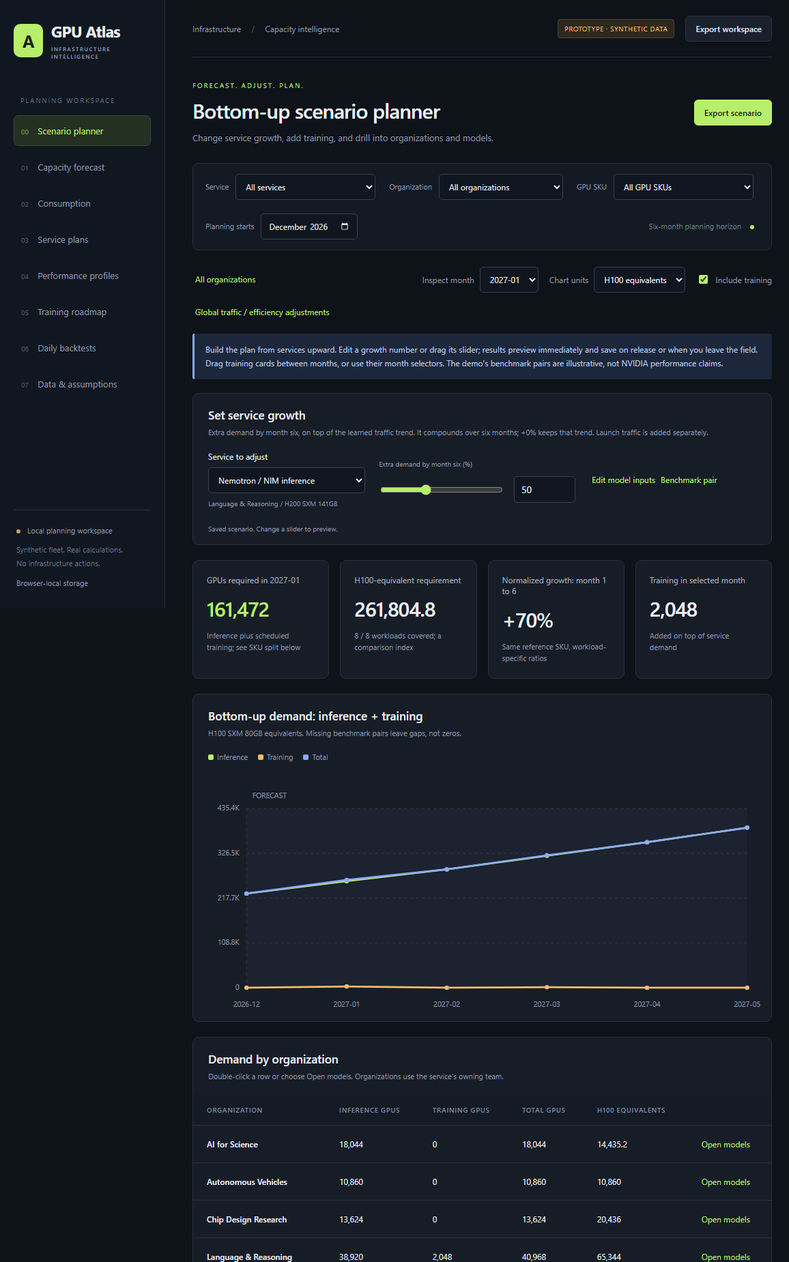
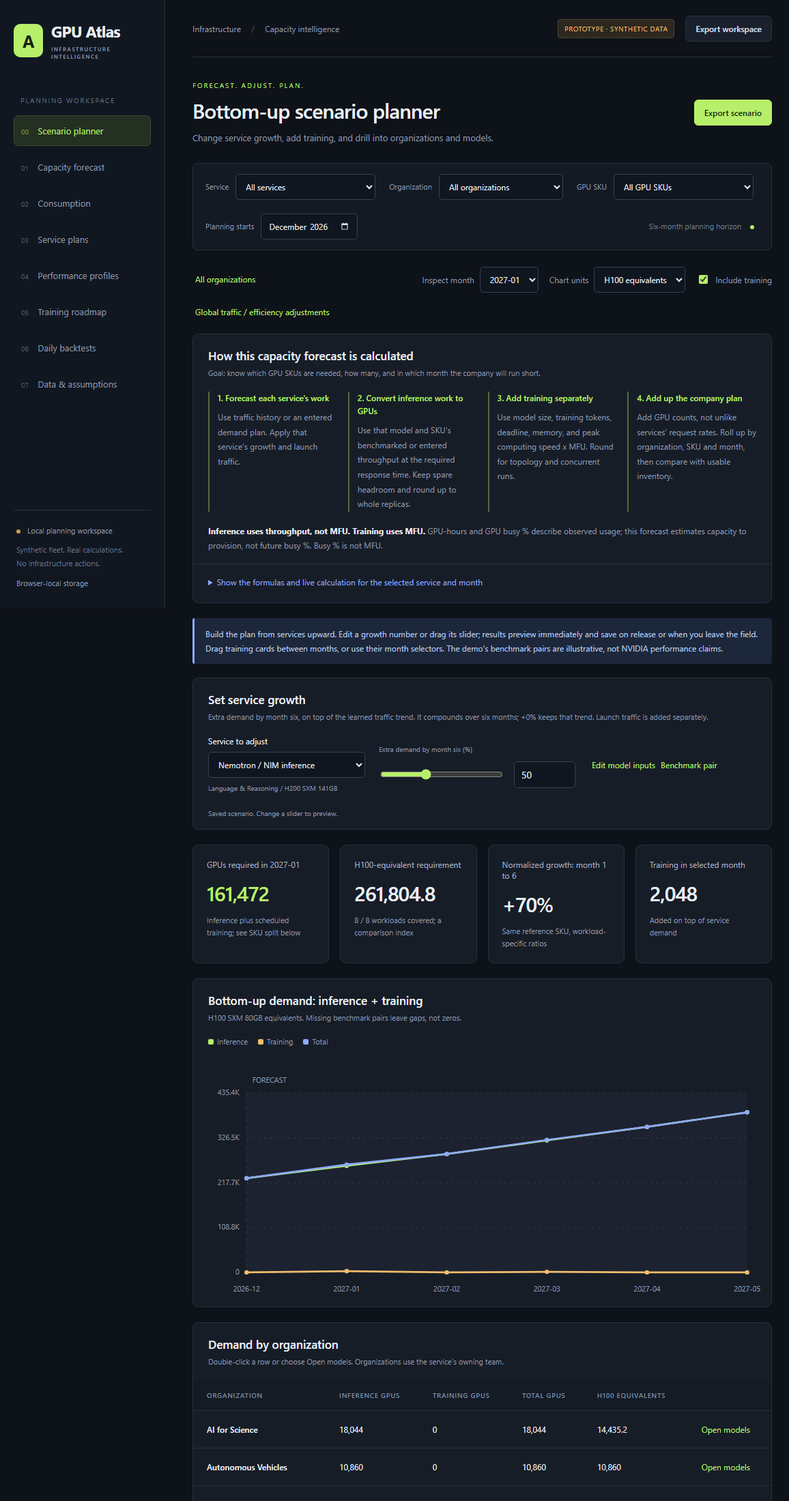
Explain capacity forecasting on the scenario planner

diff --git a/portal/app.js b/portal/app.js
@@ -214,8 +214,71 @@
   function calibrationButton(kind, item) {
     return `<button class="text-button" data-calibrate-kind="${kind}" data-calibrate-id="${esc(item.id)}" ${M.skuInfo(item.pool).legacy ? 'disabled title="Register an exact-SKU workload before normalizing"' : ""}>Benchmark pair</button>`;
   }
-  function planningResults(workspace) {
-    const report = M.bottomUpForecast(workspace, serviceFilter, teamFilter, poolFilter);
+  function forecastLogicExample(workspace, report) {
+    const focused = report.monthly.find(m => m.month === planningMonth) || report.monthly.at(-1);
+    const entries = focused.pools.flatMap(p => p.estimates);
+    const selected = report.services.find(e => e.service.id === planningQuickService) || report.services[0];
+    const estimate = selected && entries.find(e => e.serviceId === selected.service.id);
+    const usable = selected?.available && estimate?.available;
+    let serving;
+    if (usable) {
+      const service = selected.service, performance = selected.performance;
+      const throughput = performance.rpsPerReplica * (1 + report.options.throughputChangePct / 100);
+      const capacityShare = 1 - service.headroom / 100;
+      serving = `<h3>One service: ${esc(service.name)} in ${focused.month}</h3>
+        <ol class="logic-calculation">
+          <li>Start with ${fmt(estimate.baseRps, 2)} peak work items/second from ${selected.demand.source === "history" ? "the learned traffic forecast" : "the entered user-demand plan"}. Apply this service's growth and the global traffic change, then add launches:<br><code>${fmt(estimate.baseRps, 2)} x ${fmt(estimate.growthFactor, 6)} x ${fmt(1 + report.options.trafficAdjustmentPct / 100, 4)} + ${fmt(estimate.launchRps, 2)} = ${fmt(estimate.peakRps, 2)} peak work items/second.</code></li>
+          <li>One replica uses ${performance.gpusPerReplica} ${esc(skuName(service.pool))} GPUs and handles ${fmt(performance.rpsPerReplica, 4)} work items/second at the required response time. The ${pct(report.options.throughputChangePct)} throughput adjustment makes that ${fmt(throughput, 4)}. Keep ${fmt(service.headroom, 2)}% spare capacity, leaving ${fmt(throughput * capacityShare, 4)} usable work items/second per replica.</li>
+          <li>Round up to whole replicas, then multiply by GPUs per replica:<br><code>Round up (${fmt(estimate.peakRps, 2)} / ${fmt(throughput * capacityShare, 4)}) = ${fmt(estimate.gpus / performance.gpusPerReplica)} replicas.<br>${fmt(estimate.gpus / performance.gpusPerReplica)} replicas x ${performance.gpusPerReplica} GPUs = ${fmt(estimate.gpus)} required GPUs.</code></li>
+        </ol><p class="help">Throughput source: ${esc(performance.source === "inline-assumption" ? "entered service assumption" : performance.source === "synthetic" ? "illustrative profile" : "user-supplied benchmark")}. Displayed rates are rounded; GPU totals use full precision.</p>`;
+    } else serving = `<h3>One-service calculation</h3><p>${esc(selected ? selected.reason || estimate?.reason || "This service cannot be sized with the current inputs." : "No inference service matches these filters. Training on the selected SKU can still contribute below.")}</p>`;
+    const rows = report.services.map(e => {
+      const item = entries.find(r => r.serviceId === e.service.id);
+      const available = e.available && item?.available;
+      return `<tr><td class="service-name">${esc(e.service.name)}<span class="subtext">${esc(skuName(e.service.pool))}</span></td><td>${available ? fmt(item.peakRps, 2) : "Not available"}</td><td>${available ? fmt(e.performance.rpsPerReplica * (1 + report.options.throughputChangePct / 100), 4) : "Not available"}</td><td>${fmt(e.service.headroom, 2)}%</td><td>${available ? fmt(e.performance.gpusPerReplica) : "Not available"}</td><td>${available ? fmt(item.gpus) : "Not available"}${available ? "" : `<span class="subtext">${esc(e.reason || item?.reason || "Missing sizing inputs")}</span>`}</td></tr>`;
+    }).join("");
+    const horizon = M.months(workspace.startMonth);
+    const plans = planningPlans(workspace).filter(t => horizon.includes(t.month));
+    const plan = plans.find(t => t.month === focused.month) || [...plans].sort((a, b) => a.month.localeCompare(b.month))[0];
+    let training = "<p>No training plan matches these filters within the planning horizon. Training requires separate model, token, timing, memory and MFU inputs; it is not inferred from service request rates.</p>";
+    if (plan) {
+      const result = M.training(plan);
+      const status = !report.options.includeTraining ? "Excluded from totals because Include training is off." :
+        plan.month === focused.month ? "Included in the inspected month's total." :
+          `Scheduled in ${plan.month}, not in the inspected month ${focused.month}.`;
+      training = `<h3>Training example: ${esc(plan.name)}</h3><p>${esc(skuName(plan.pool))}. ${status}</p>
+        <ol class="logic-calculation">
+          <li>Dense-model work: <code>6 x ${fmt(plan.parametersB, 3)} billion parameters x ${fmt(plan.tokensB, 3)} billion training tokens = ${result.flops.toExponential(2)} FLOPs.</code></li>
+          <li>Effective GPU speed: <code>${fmt(plan.peakTflops, 3)} peak TFLOP/s x ${fmt(plan.mfu, 2)}% MFU = ${fmt(plan.peakTflops * plan.mfu / 100, 3)} effective TFLOP/s per GPU.</code> MFU is the share of theoretical computing speed achieved on model work, not the GPU busy percentage.</li>
+          <li>Finishing within ${fmt(plan.days, 2)} active days needs ${fmt(result.computeGpus)} GPUs for compute. The training-state memory minimum is ${fmt(result.memoryGpus)} GPUs. Take the larger count and round up to blocks of ${fmt(plan.block)} GPUs: ${fmt(result.gang)} per run. Multiply by ${fmt(plan.runs)} concurrent runs: <strong>${Number.isSafeInteger(result.totalGpus) ? `${fmt(result.totalGpus)} required training GPUs` : "GPU count outside the supported range"}</strong>.</li>
+        </ol><p class="help">This estimates dense-transformer pretraining only. Peak speed and MFU must refer to the same precision and configuration. The memory screen excludes activations and communication buffers; it does not prove fit. Training tokens/second benchmark pairs are used for H100 normalization, not to replace this MFU-based sizing calculation.</p>`;
+    }
+    return `<div class="logic-example">${serving}<h3>Repeat the calculation for every service</h3>
+      <p>Each model has its own request size, response-time target, GPU SKU and serving throughput. Do not add a render's work/second to a language model's requests/second and divide by one company-wide speed. Convert each service to GPUs first:</p>
+      ${table(["Service / SKU", "Planned peak work/s", "Work/s per replica", "Spare share", "GPUs per replica", "Required GPUs"], rows)}
+      <div class="logic-training">${training}</div>
+      <h3>The result for ${focused.month}, within the current filters</h3>
+      <p><strong>${fmt(focused.inference)} inference GPUs + ${fmt(focused.training)} scheduled training GPUs = <span id="logic-total-gpus">${fmt(focused.required)}</span> required GPUs${focused.physicalComplete ? "" : " (partial: some workloads cannot be sized)"}.</strong> Group these counts by owning organization and exact GPU SKU. Monthly planning assumes service peaks and same-month training can overlap; it does not credit shared idle time.</p>
+      <p>For each SKU: <code>usable supply = installed - unavailable - protected reserve + additions ready by that month</code>. Then <code>shortage = required GPUs - usable supply</code>. A positive shortage is the number to add or the demand to reschedule; spare capacity in another SKU is not an automatic substitute.</p>
+      <p>For a common growth index, multiply each workload's GPU count by its own selected-SKU/H100 throughput ratio, then add those H100 equivalents. Normalization compares the plan; it does not change the required SKU counts or normalize idle inventory.</p></div>`;
+  }
+  function forecastLogicPanel(workspace, report) {
+    return `<section class="panel forecast-logic" aria-labelledby="forecast-logic-title"><div class="panel-heading"><div><h2 id="forecast-logic-title">How this capacity forecast is calculated</h2><p>Goal: know which GPU SKUs are needed, how many, and in which month the company will run short.</p></div></div>
+      <ol class="logic-steps">
+        <li><h3>1. Forecast each service's work</h3><p>Use traffic history or an entered demand plan. Apply that service's growth and launch traffic.</p></li>
+        <li><h3>2. Convert inference work to GPUs</h3><p>Use that model and SKU's benchmarked or entered throughput at the required response time. Keep spare headroom and round up to whole replicas.</p></li>
+        <li><h3>3. Add training separately</h3><p>Use model size, training tokens, deadline, memory, and peak computing speed x MFU. Round for topology and concurrent runs.</p></li>
+        <li><h3>4. Add up the company plan</h3><p>Add GPU counts, not unlike services' request rates. Roll up by organization, SKU and month, then compare with usable inventory.</p></li>
+      </ol>
+      <p class="logic-key"><strong>Inference uses throughput, not MFU. Training uses MFU.</strong> GPU-hours and GPU busy % describe observed usage; this forecast estimates capacity to provision, not future busy %. Busy % is not MFU.</p>
+      <details id="forecast-logic-details" ${$("#forecast-logic-details")?.open ? "open" : ""}><summary>Show the formulas and live calculation for the selected service and month</summary>
+        <div class="logic-formulas"><p><strong>Inference:</strong> <code>replicas = round up (peak work/s / (work/s per replica x usable capacity share))</code>; <code>GPUs = replicas x GPUs per replica</code>.</p>
+        <p><strong>Training:</strong> <code>work = 6 x parameters x training tokens</code>; <code>compute GPUs = round up (work / (active seconds x peak FLOP/s per GPU x MFU fraction))</code>. Use the larger compute/memory count, round to topology blocks, then multiply by concurrent runs.</p>
+        <p>For history-based services, compare a recent average with a weekly trend plus weekday pattern using 14 held-out days, refit, then size against the busiest predicted day of each month. At least 42 consecutive days are needed; up to 84 are used. Missing history requires an explicit demand plan, not an assumed zero.</p></div>
+        <div id="forecast-logic-example">${forecastLogicExample(workspace, report)}</div>
+      </details></section>`;
+  }
+  function planningResults(workspace, report = M.bottomUpForecast(workspace, serviceFilter, teamFilter, poolFilter)) {
     const focused = report.monthly.find(m => m.month === planningMonth) || report.monthly.at(-1);
     const first = report.monthly[0], last = report.monthly.at(-1);
     const normalized = planningUnit === "h100";
@@ -254,10 +317,12 @@
     if (quick) planningQuickService = quick.id;
     const plans = planningPlans(state);
     const options = state.forecast || M.defaultForecast();
+    const report = M.bottomUpForecast(state, serviceFilter, teamFilter, poolFilter);
     return `<div class="planning-toolbar"><div class="planning-breadcrumb"><button class="text-button" data-planning-root>All organizations</button>${teamFilter !== "all" ? ` / <button class="text-button" data-drill-org="${esc(teamFilter)}">${esc(teamFilter)}</button>` : ""}${serviceFilter !== "all" ? ` / ${esc(state.services.find(s => s.id === serviceFilter).name)}` : ""}</div><label>Inspect month<select id="planning-month">${horizon.map(m => `<option ${m === planningMonth ? "selected" : ""}>${m}</option>`).join("")}</select></label><label>Chart units<select id="planning-unit"><option value="physical" ${planningUnit === "physical" ? "selected" : ""}>Physical GPUs</option><option value="h100" ${planningUnit === "h100" ? "selected" : ""}>H100 equivalents</option></select></label><label class="check-option"><input id="planning-training" type="checkbox" ${options.includeTraining ? "checked" : ""}> Include training</label><button class="text-button" data-view="capacity">Global traffic / efficiency adjustments</button></div>
+      ${forecastLogicPanel(state, report)}
       <div class="callout info">Build the plan from services upward. Edit a growth number or drag its slider; results preview immediately and save on release or when you leave the field. Drag training cards between months, or use their month selectors. The demo's benchmark pairs are illustrative, not NVIDIA performance claims.</div>
       <section class="panel"><div class="panel-heading"><div><h2>Set service growth</h2><p>Extra demand by month six, on top of the learned traffic trend. It compounds over six months; +0% keeps that trend. Launch traffic is added separately.</p></div></div><div class="panel-body planning-quick">${quick ? `<label>Service to adjust<select id="planning-quick-service">${services.map(s => `<option value="${esc(s.id)}" ${s.id === quick.id ? "selected" : ""}>${esc(s.name)}</option>`).join("")}</select><span class="help">${esc(quick.team)} / ${esc(skuName(quick.pool))}</span></label><div><label class="help">Extra demand by month six (%)</label><div class="growth-editor"><input type="range" min="-90" max="300" step="0.1" value="${quick.scenarioGrowthPct ?? 0}" data-service-growth="${esc(quick.id)}" aria-label="Growth slider for ${esc(quick.name)}"><input type="number" min="-90" max="300" step="0.1" value="${quick.scenarioGrowthPct ?? 0}" required data-service-growth="${esc(quick.id)}" aria-label="Growth percentage for ${esc(quick.name)}"></div></div><div><button class="text-button" data-edit-service="${esc(quick.id)}">Edit model inputs</button>${calibrationButton("inference", quick)}</div>` : '<p class="help">No inference service matches these filters. Training on this SKU is still included below.</p>'}</div><p id="planning-preview-status" class="panel-body help" role="status">Saved scenario. Change a slider to preview.</p></section>
-      <div id="planning-results">${planningResults(state)}</div>
+      <div id="planning-results">${planningResults(state, report)}</div>
       <section class="panel"><div class="panel-heading"><div><h2>Schedule training on top</h2><p>${options.includeTraining ? "Included in totals. Plans within a month are treated as concurrent." : "Excluded from totals. You can still edit or reschedule the roadmap."} Moves preserve the run's active days; impossible calendar moves are rejected.</p></div><button class="button subtle" data-action="training">Add training plan</button></div><div class="training-scroll"><div class="training-board">${horizon.map(m => `<section class="training-lane" data-training-drop="${m}" aria-label="Training scheduled for ${m}"><h3>${m}</h3>${plans.filter(t => t.month === m).map(t => `<article class="training-drag-card" draggable="true" data-training-drag="${esc(t.id)}"><span class="help">Drag to reschedule</span><h3>${esc(t.name)}</h3><p>${fmt(M.training(t).totalGpus)} GPUs<br><span class="help">${esc(skuName(t.pool))}</span></p><label class="help">Move to month<select data-training-month="${esc(t.id)}" aria-label="Move ${esc(t.name)} to month">${horizon.map(month => `<option ${month === m ? "selected" : ""}>${month}</option>`).join("")}</select></label><div class="form-actions"><button class="text-button" data-edit-training="${esc(t.id)}">Edit model</button>${calibrationButton("training", t)}</div></article>`).join("") || '<p class="help">Drop a training plan here.</p>'}</section>`).join("")}</div></div>${plans.some(t => !horizon.includes(t.month)) ? '<p class="panel-body help">Some plans are outside this horizon. Open Training roadmap to see them.</p>' : ""}</section>
       <section class="panel"><div class="panel-heading"><h2>How normalization works</h2></div><div class="panel-body description">For each workload: ratio = benchmark throughput per selected-SKU GPU / benchmark throughput per H100 SXM GPU. H100 equivalents = required GPUs x that ratio. Convert back for that same workload: equivalents / ratio. Compare identical model versions, precision, job sizes and response-time targets; enter full-replica throughput divided by its GPU count.<br>Inference uses fixed work items/second/GPU; training uses training tokens/second/GPU. Ratios are workload-specific, not a universal H100-to-B200 conversion. A GB200 superchip contains a CPU and two GPUs; it is not one interchangeable GPU.<br>Missing, changed or future-dated evidence makes normalized totals unavailable. Physical SKU demand remains visible. This index does not prove memory fit, interconnect compatibility, or that a job can move to another GPU.</div></section>`;
   }
@@ -277,7 +342,9 @@
       if (!save(next, "Service growth saved. SKU demand and organization totals updated.", false, false)) {render(); return;}
       status.textContent = "Scenario saved.";
     } else status.textContent = "Live preview - release the slider or leave the number field to save.";
-    $("#planning-results").innerHTML = planningResults(next);
+    const report = M.bottomUpForecast(next, serviceFilter, teamFilter, poolFilter);
+    $("#planning-results").innerHTML = planningResults(next, report);
+    $("#forecast-logic-example").innerHTML = forecastLogicExample(next, report);
   }
   function rescheduleTraining(id, targetMonth) {
     try {

diff --git a/portal/styles.css b/portal/styles.css
@@ -2,6 +2,9 @@
 *{box-sizing:border-box}body{margin:0;background:var(--bg);color:var(--text);font:14px "Segoe UI",Arial,sans-serif}button,input,select{font:inherit}button,a,input,select{outline-offset:4px}button{cursor:pointer}button:disabled{opacity:.5;cursor:not-allowed}a{color:var(--green)}.sidebar{width:242px;position:fixed;inset:0 auto 0 0;background:#111720;border-right:1px solid var(--line);padding:30px 20px;display:flex;flex-direction:column}.brand{display:flex;gap:12px;align-items:center;color:var(--text);text-decoration:none;font-size:23px;font-weight:650;letter-spacing:-.7px}.brand-icon{background:var(--green);color:#182014;border-radius:10px;padding:8px 13px;font-size:25px}.brand small{display:block;font-size:8px;letter-spacing:1.5px;font-weight:500;color:var(--muted);margin-top:5px}.workspace-label{font-size:10px;letter-spacing:1.7px;color:#657389;margin:52px 10px 15px}nav{display:grid;gap:8px}nav button{background:transparent;color:var(--muted);border:1px solid transparent;text-align:left;border-radius:7px;padding:13px 10px;font-size:13px}nav button span{font-size:10px;margin-right:10px;opacity:.5}nav button:hover{background:#1b2330;color:var(--text)}nav button.active{background:#243022;color:var(--green);border-color:#3a4b31}.sidebar-bottom{margin-top:auto;border-top:1px solid var(--line);padding:22px 4px 0;font-size:11px;color:var(--muted)}.sidebar-bottom p{line-height:1.8;color:#68778c}.dot{display:inline-block;background:var(--green);width:6px;height:6px;border-radius:50%;margin-right:7px}.sidebar-bottom .dot{background:#c9a157}main{margin-left:242px;padding:0 40px;max-width:1800px}header{min-height:84px;display:flex;justify-content:space-between;align-items:center;border-bottom:1px solid var(--line);gap:12px}.breadcrumb{font-size:12px;color:var(--muted)}.breadcrumb span{margin:0 12px;color:#536075}.header-actions{display:flex;gap:16px;align-items:center}.pill,.badge{display:inline-block;font-size:10px;letter-spacing:.6px;padding:6px 9px;border-radius:4px;border:1px solid #4d4330;background:#2d281e;color:var(--amber);white-space:nowrap}.badge{background:#222d3b;border-color:#36475b;color:#b1c1d9;letter-spacing:0;font-size:11px}.badge.green{background:#243222;color:var(--green);border-color:#3d5030}.badge.red{background:#38252b;color:#ff9eaa;border-color:#64333e}.page-heading{display:flex;justify-content:space-between;align-items:center;gap:20px;margin:34px 0 26px}.eyebrow{font-size:10px;color:var(--green);letter-spacing:2px;margin:0 0 10px}h1{font-size:30px;letter-spacing:-.8px;font-weight:600;margin:0 0 10px}h2{font-size:17px;font-weight:600;margin:0}h3{font-size:14px;font-weight:600;margin:0}.page-heading p:not(.eyebrow){color:var(--muted);font-size:13px;margin:0;line-height:1.6}.button{border:1px solid var(--line);border-radius:6px;padding:10px 14px;white-space:nowrap;font-size:12px;font-weight:600}.primary{background:var(--green);border-color:var(--green);color:#1a2613}.primary:hover{background:#c9ff80}.subtle{background:#1a212d;color:#d4deeb}.subtle:hover{border-color:#596a80}.filterbar{display:flex;align-items:center;gap:20px;background:#141a23;border:1px solid var(--line);border-radius:8px;padding:15px 18px;margin-bottom:24px}.filterbar label{display:flex;gap:10px;align-items:center;font-size:11px;color:var(--muted)}select,input{background:#101620;border:1px solid #354153;border-radius:5px;padding:9px 10px;color:var(--text);max-width:100%;min-width:0}input:focus,select:focus{border-color:var(--green)}.filterbar select{max-width:205px;font-size:12px}.filterbar input{font-size:12px}.filter-note{font-size:11px;color:#718197;margin-left:auto}.filter-note .dot{margin-left:10px}.kpis{display:grid;grid-template-columns:repeat(4,minmax(0,1fr));gap:16px;margin-bottom:22px}.kpi{padding:20px;background:var(--panel);border:1px solid var(--line);border-radius:9px}.kpi .label{font-size:12px;color:#a6b0c1;margin-bottom:14px}.kpi .value{font-size:30px;letter-spacing:-1px;font-weight:600}.kpi .detail{font-size:11px;color:var(--muted);margin-top:11px;line-height:1.6}.accent{color:var(--green)}.grid-two{display:grid;grid-template-columns:minmax(0,1.8fr) minmax(270px,1fr);gap:20px;margin-bottom:22px}.panel{background:var(--panel);border:1px solid var(--line);border-radius:9px;margin-bottom:22px;overflow:hidden}.grid-two>.panel{margin-bottom:0}.panel-heading{padding:20px 22px;display:flex;align-items:center;justify-content:space-between;gap:12px}.panel-heading p{font-size:11px;color:var(--muted);margin:7px 0 0}.panel-body{padding:0 22px 22px}.segmented{display:flex;gap:2px;background:#101620;padding:3px;border-radius:6px}.segmented button{background:transparent;color:var(--muted);border:0;border-radius:4px;padding:6px 10px;font-size:11px}.segmented .selected{background:#313b4b;color:#e5edf9}.legend{display:flex;gap:15px;font-size:11px;color:var(--muted);margin:0 0 14px;flex-wrap:wrap}.legend i{display:inline-block;width:8px;height:8px;margin-right:5px;background:var(--green);border-radius:2px}.legend .blue{background:var(--blue)}.legend .amber{background:var(--amber)}.chart{width:100%;height:auto;display:block}.chart text{fill:var(--muted);font:10px "Segoe UI",Arial,sans-serif}.chart line{stroke:#303948}.chart .grid-line{stroke-dasharray:3 5}.chart-wrap{padding:0 16px 12px}.callout{border-left:3px solid var(--amber);padding:13px 16px;background:#29251f;color:#d8c6a9;font-size:12px;line-height:1.7;margin-bottom:20px;border-radius:3px}.callout.info{border-color:var(--blue);background:#1d273b;color:#bacbee}.table-scroll{overflow:auto}table{width:100%;border-collapse:collapse;white-space:nowrap}th{font-size:10px;letter-spacing:.7px;text-transform:uppercase;color:#7f8da3;font-weight:500;background:#141b25}td,th{padding:15px 20px;text-align:left;border-bottom:1px solid #28313e}td{font-size:12px}tbody tr:last-child td{border-bottom:0}.service-name{font-weight:600}.subtext{display:block;color:var(--muted);font-size:10px;margin-top:5px;font-weight:400}.text-button{border:0;background:transparent;color:var(--green);font-size:12px;padding:4px}.text-button:hover{text-decoration:underline}.bar-row{margin-bottom:22px}.bar-row:last-child{margin-bottom:0}.bar-heading{display:flex;justify-content:space-between;font-size:12px;margin-bottom:9px;gap:10px}.bar-track{height:6px;background:#29313f;border-radius:5px;overflow:hidden}.bar-fill{height:100%;background:var(--green);border-radius:5px}.muted{color:var(--muted)}.description{color:var(--muted);line-height:1.8;font-size:12px}.form-grid{display:grid;grid-template-columns:1fr 1fr;gap:17px}.form-grid label{display:grid;gap:8px;font-size:12px;color:#c0cada}.form-grid .wide{grid-column:1/-1}.help{font-size:10px;color:var(--muted);line-height:1.5}.editor-inline{padding:22px;max-width:850px}.form-actions{margin-top:22px;display:flex;gap:12px;align-items:center;flex-wrap:wrap}dialog{background:var(--panel);color:var(--text);border:1px solid #44546b;border-radius:12px;padding:26px;width:min(760px,94vw);max-height:90vh}dialog::backdrop{background:#03070cbb;backdrop-filter:blur(4px)}.dialog-heading{display:flex;justify-content:space-between;align-items:start}.icon-button{border:0;background:transparent;color:var(--muted);font-size:25px}.dialog-footer{display:flex;justify-content:flex-end;gap:12px;margin-top:20px}#editor-intro{font-size:12px;color:var(--muted);line-height:1.7;margin:15px 0 22px}.error{color:#ffa5af;font-size:12px;line-height:1.6}#notice{background:#233526;border:1px solid #455b3d;color:#d2edc8;padding:12px 16px;border-radius:7px;margin-top:16px;font-size:12px}#notice.error{background:#36232a;border-color:#643746;color:#ffbdc5}.empty{padding:36px 22px;color:var(--muted);line-height:1.8}.pool-cards{display:grid;grid-template-columns:repeat(3,minmax(0,1fr));gap:16px;margin-bottom:22px}.plan-card{padding:22px;background:var(--panel);border:1px solid var(--line);border-radius:9px}.plan-card h3{margin:12px 0}.big-number{font-size:26px;margin:16px 0 4px;color:var(--green)}.stat-line{display:flex;justify-content:space-between;gap:15px;padding:10px 0;border-bottom:1px solid var(--line);font-size:12px}.stat-line span:first-child{color:var(--muted)}.data-tools{display:flex;gap:12px;align-items:center;flex-wrap:wrap}.data-tools input{max-width:300px}details{margin-top:15px;font-size:12px;color:var(--muted);line-height:1.8}summary{cursor:pointer;color:var(--text)}footer{display:flex;justify-content:space-between;padding:24px 0 30px;border-top:1px solid var(--line);font-size:10px;color:#69788e;margin-top:30px}
 .filterbar{flex-wrap:wrap}
 .workload-description{white-space:normal;min-width:240px;max-width:560px;line-height:1.6}
+.forecast-logic{overflow-wrap:anywhere}.logic-steps{display:grid;grid-template-columns:repeat(4,minmax(0,1fr));gap:16px;list-style:none;padding:0 22px;margin:0 0 18px}.logic-steps li{border-left:2px solid #536a3b;padding-left:12px}.logic-steps h3{font-size:12px;line-height:1.6;color:var(--green)}.logic-steps p,.forecast-logic details p,.logic-calculation{font-size:12px;line-height:1.8;color:var(--muted)}.logic-steps p{margin:8px 0 0}.logic-key{padding:0 22px;font-size:12px;line-height:1.8;color:var(--muted)}.logic-key strong{color:var(--text)}.forecast-logic details{border-top:1px solid var(--line);padding:16px 22px 20px}.forecast-logic summary{cursor:pointer;color:var(--blue);font-size:12px;line-height:1.7}.logic-formulas{margin-top:16px}.forecast-logic code{color:#d2dfbd;white-space:normal;overflow-wrap:anywhere;font-size:11px}.logic-example h3{margin:22px 0 10px}.logic-calculation{padding-left:22px}.logic-calculation li{margin-bottom:12px}.logic-training{border-top:1px solid var(--line);margin-top:20px}.logic-example{min-width:0}.forecast-logic .table-scroll{margin:16px 0}
+@media(max-width:1000px){.logic-steps{grid-template-columns:repeat(2,minmax(0,1fr))}}
+@media(max-width:700px){.logic-steps{grid-template-columns:minmax(0,1fr)}.forecast-logic details{padding:16px}.logic-key{padding:0 18px}}
 .planning-toolbar{display:flex;align-items:center;gap:16px;flex-wrap:wrap;margin-bottom:20px}.planning-toolbar label{display:flex;align-items:center;gap:8px;font-size:12px;color:var(--muted)}.planning-breadcrumb{flex:1;min-width:180px;font-size:12px;line-height:1.8}.growth-editor{display:flex;align-items:center;gap:14px;min-width:280px}.growth-editor input[type=range]{width:180px;padding:0;accent-color:var(--green)}.growth-editor input[type=number]{width:90px}.training-scroll{overflow:auto;padding:0 20px 20px}.training-board{display:grid;grid-template-columns:repeat(6,minmax(210px,1fr));gap:14px}.training-lane{border:1px dashed #455369;border-radius:8px;padding:14px;min-height:200px;background:#111822}.training-lane>h3{margin-bottom:16px;color:var(--blue)}.training-lane.drop-target{border:2px solid var(--green);background:#243222}.training-drag-card{background:var(--panel);border:1px solid #485b42;border-radius:6px;padding:12px;margin-bottom:12px;cursor:grab}.training-drag-card h3{white-space:normal;line-height:1.5;margin:10px 0}.training-drag-card p{font-size:12px;line-height:1.7}.training-drag-card select{display:block;width:100%;margin-top:7px}.training-drag-card .form-actions{gap:4px;margin-top:12px}[data-org-row],[data-model-row],[data-training-row]{cursor:zoom-in}[data-org-row]:hover,[data-model-row]:hover,[data-training-row]:hover{background:#202b39}#planning-preview-status{margin:0;padding-bottom:15px}
 .forecast-intro{display:flex;align-items:center;gap:14px;flex-wrap:wrap;margin-bottom:20px}.forecast-intro p{font-size:12px;color:var(--muted);margin:0;line-height:1.6}.forecast-layout{display:grid;grid-template-columns:minmax(0,1fr) 285px;gap:20px;align-items:start}.forecast-main{min-width:0}.forecast-main .panel-heading{flex-wrap:wrap}.forecast-controls form{display:grid;gap:18px}.forecast-controls label{display:grid;gap:8px;font-size:12px;color:#c0cada}.forecast-controls input[type=number]{width:100%}.forecast-controls .check-option{display:flex;align-items:center;gap:10px;line-height:1.5}.check-option input{accent-color:var(--green)}.forecast-links{display:flex;gap:8px;flex-wrap:wrap;border-top:1px solid var(--line);padding-top:10px}.legend .gray{background:#a7b3c5}
 .planning-quick{display:flex;align-items:center;gap:20px;flex-wrap:wrap}.planning-quick>label{display:grid;gap:8px;font-size:12px;max-width:100%}.planning-quick select{max-width:320px}.planning-quick .growth-editor{margin-top:10px}

diff --git a/README.md b/README.md
@@ -53,6 +53,24 @@ The starting point is each service, not a company-wide GPU growth target:
 
 Open **Scenario planner**, the default page:
 
+The first page explains **How this capacity forecast is calculated** before the
+editing controls. It distinguishes inference throughput from training MFU, then
+shows a live worked example, a service-by-service conversion table, and the
+rollup into monthly GPU requirements and SKU shortages. Open **Show the formulas
+and live calculation** to inspect the numbers; they update with the selected
+service, month, growth, and filters.
+
+- **Inference uses serving throughput**, benchmarked or entered for that model
+  and SKU at its response-time target. Convert each service's work into GPU
+  replicas separately, then add GPU counts. Do not add unlike services' request
+  rates and divide by one company-wide throughput number.
+- **Dense training uses model work and MFU**, plus a deadline, memory screen,
+  topology rounding, and concurrent runs. Training throughput benchmark pairs
+  serve the normalization index; they do not replace the MFU-based sizing math.
+- **Capacity is not busy percentage.** GPU-hours and activity describe observed
+  usage. The forecast estimates capacity to provision and assumes monthly peaks
+  and scheduled training can overlap; it does not optimize their sharing.
+
 - Choose a service under **Set service growth**. Drag the slider or type a
   percentage. Results preview immediately; release the slider or leave the
   number field to save.
